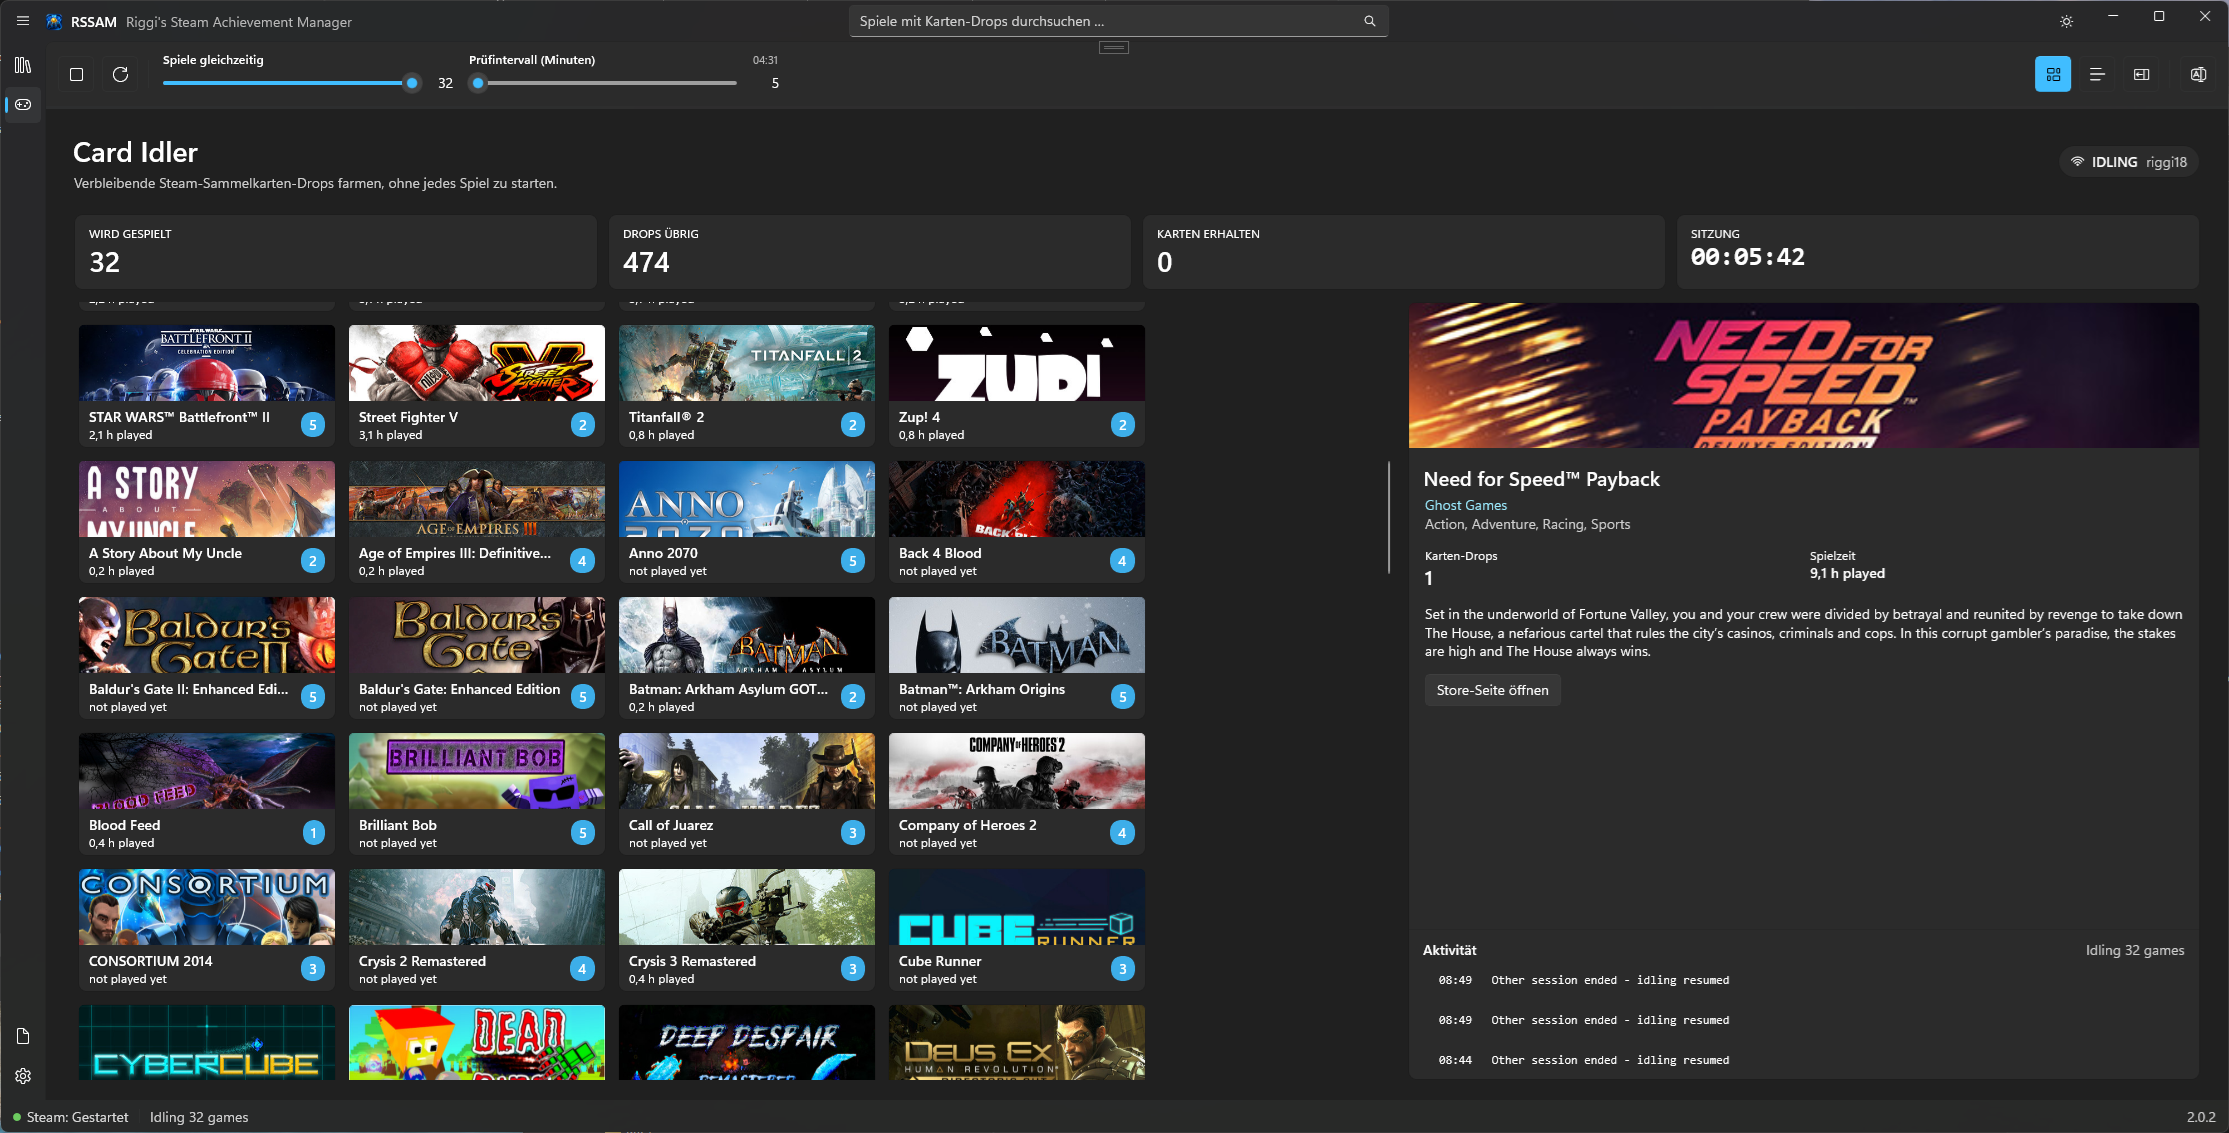
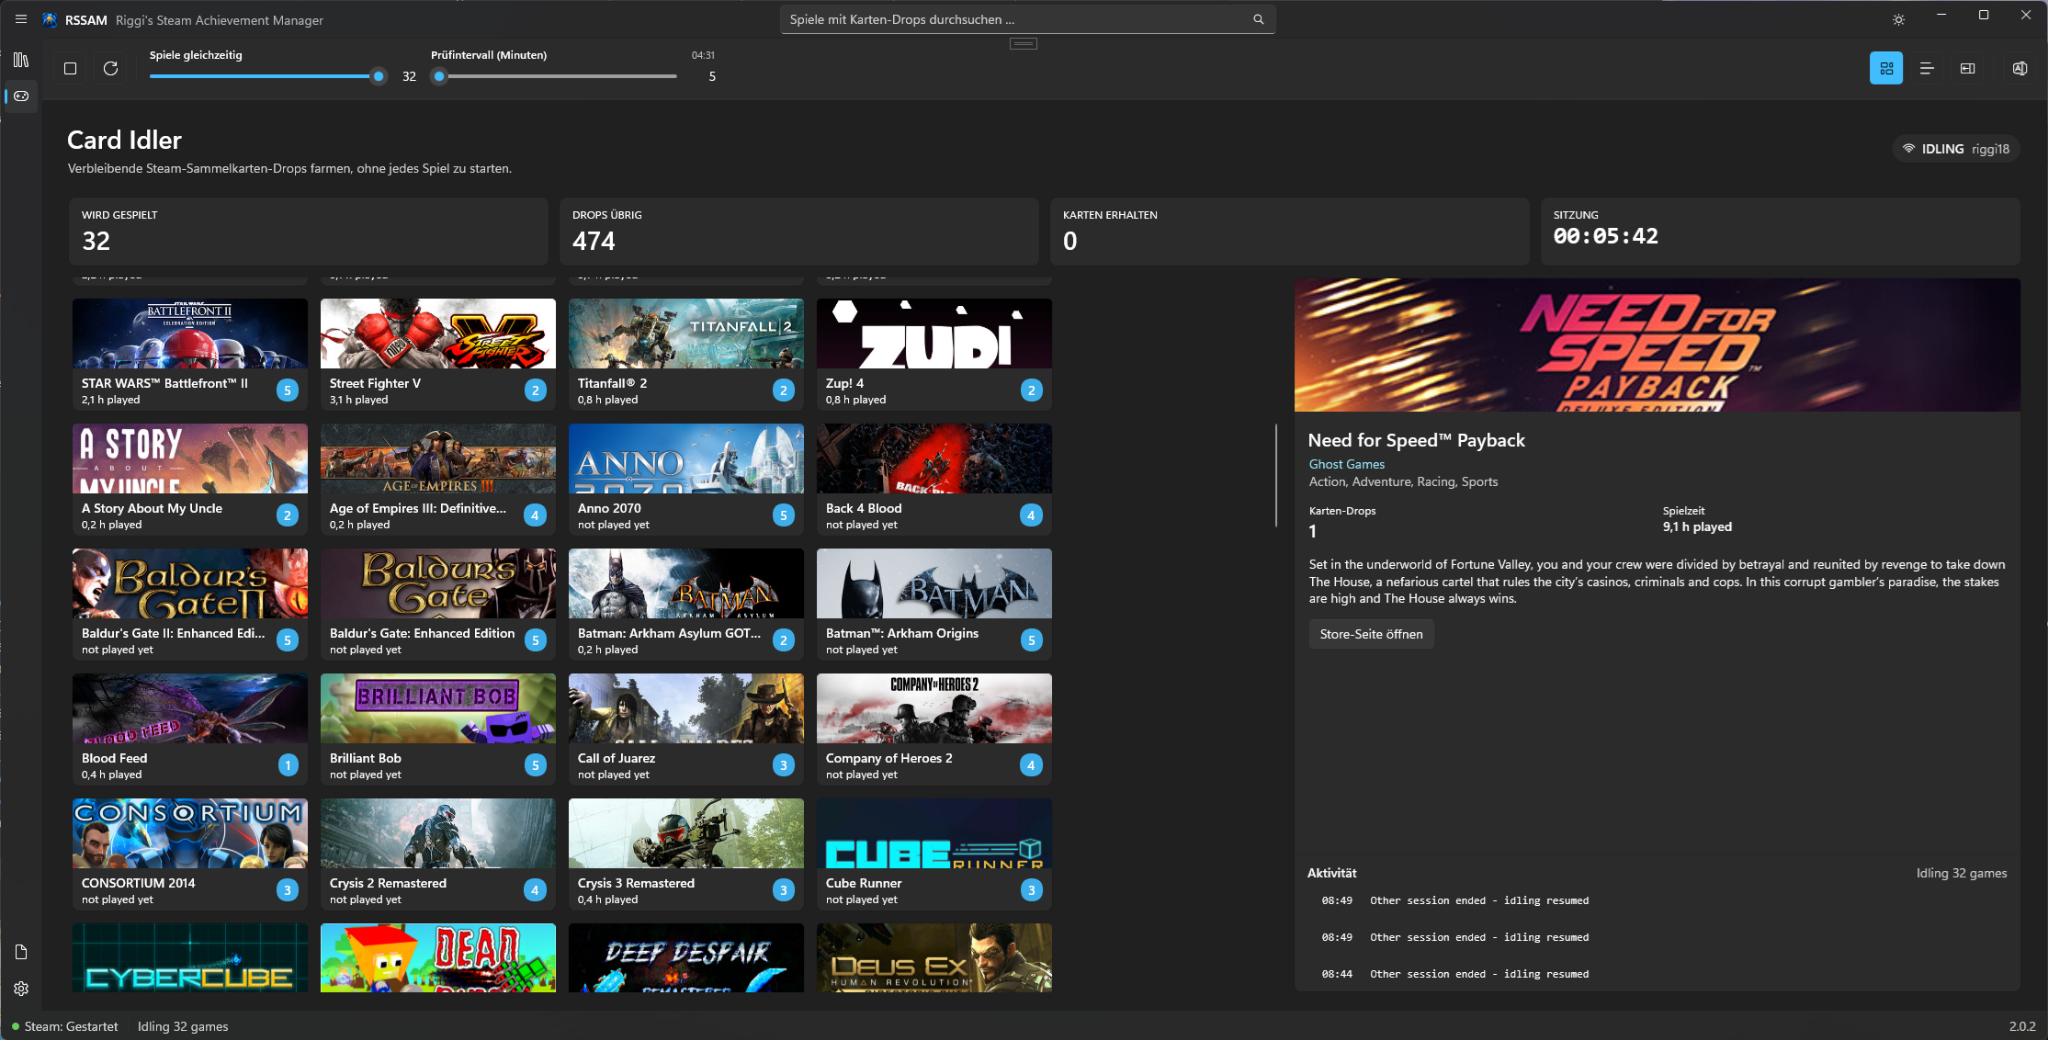
Release 2.0.3: Card Idler TableView and version bump
Bump release to 2.0.3 across build and app metadata (Directory.Build.props, AppVersion, app.manifest, README, docs and scripts) and add changelog entry. Replace Card Idler's manual ListView detail with WinUI.TableView (package added), providing read-only columns, single-row selection and complete-row item clicks; update XAML and code-behind accordingly and add Card Idler screenshot. Remove/disable obsolete app-local shell contract sources in RSSAM.App and add compatibility tombstones. Update docs (architecture, testing, project structure, build/release) to reflect changes.

diff --git a/src/RSSAM.CardIdler/Views/CardIdlerPage.xaml b/src/RSSAM.CardIdler/Views/CardIdlerPage.xaml
@@ -3,6 +3,7 @@
     xmlns="http://schemas.microsoft.com/winfx/2006/xaml/presentation"
     xmlns:x="http://schemas.microsoft.com/winfx/2006/xaml"
     xmlns:conv="using:RSSAM.CardIdler.Converters"
+    xmlns:tv="using:WinUI.TableView"
     x:Name="RootPage"
     NavigationCacheMode="Required">
 
@@ -123,37 +124,48 @@
                         </ListView>
 
                         <Grid x:Name="DetailGamesPanel" Visibility="Collapsed">
-                            <Grid.RowDefinitions><RowDefinition Height="40" /><RowDefinition Height="*" /></Grid.RowDefinitions>
-                            <Grid Padding="12,0" ColumnSpacing="12" Background="{ThemeResource CardBackgroundFillColorDefaultBrush}">
-                                <Grid.ColumnDefinitions>
-                                    <ColumnDefinition Width="92" /><ColumnDefinition Width="*" /><ColumnDefinition Width="88" />
-                                    <ColumnDefinition Width="76" /><ColumnDefinition Width="110" />
-                                </Grid.ColumnDefinitions>
-                                <TextBlock x:Name="DetailImageColumnText" Text="Image" FontWeight="SemiBold" VerticalAlignment="Center" />
-                                <TextBlock x:Name="DetailGameColumnText" Grid.Column="1" Text="Game" FontWeight="SemiBold" VerticalAlignment="Center" />
-                                <TextBlock x:Name="DetailAppIdColumnText" Grid.Column="2" Text="App ID" FontWeight="SemiBold" VerticalAlignment="Center" />
-                                <TextBlock x:Name="DetailDropsColumnText" Grid.Column="3" Text="Drops" FontWeight="SemiBold" VerticalAlignment="Center" />
-                                <TextBlock x:Name="DetailPlaytimeColumnText" Grid.Column="4" Text="Playtime" FontWeight="SemiBold" VerticalAlignment="Center" />
-                            </Grid>
-                            <ListView x:Name="DetailGamesView" Grid.Row="1"
-                                      ItemsSource="{Binding FilteredGames, ElementName=RootPage}"
-                                      IsItemClickEnabled="True" ItemClick="GameList_ItemClick" SelectionMode="Single">
-                                <ListView.ItemTemplate>
-                                    <DataTemplate>
-                                        <Grid MinHeight="58" Padding="12,5" ColumnSpacing="12" ToolTipService.ToolTip="{Binding Name}">
-                                            <Grid.ColumnDefinitions>
-                                                <ColumnDefinition Width="92" /><ColumnDefinition Width="*" /><ColumnDefinition Width="88" />
-                                                <ColumnDefinition Width="76" /><ColumnDefinition Width="110" />
-                                            </Grid.ColumnDefinitions>
-                                            <Border CornerRadius="4"><Image Source="{Binding HeaderUrl}" Stretch="UniformToFill" /></Border>
-                                            <TextBlock Grid.Column="1" Text="{Binding Name}" VerticalAlignment="Center" TextTrimming="CharacterEllipsis" />
-                                            <TextBlock Grid.Column="2" Text="{Binding AppId}" VerticalAlignment="Center" />
-                                            <TextBlock Grid.Column="3" Text="{Binding DropsRemaining}" VerticalAlignment="Center" />
-                                            <TextBlock Grid.Column="4" Text="{Binding HoursText}" VerticalAlignment="Center" TextTrimming="CharacterEllipsis" />
-                                        </Grid>
-                                    </DataTemplate>
-                                </ListView.ItemTemplate>
-                            </ListView>
+                            <tv:TableView x:Name="DetailGamesView"
+                                          ItemsSource="{Binding FilteredGames, ElementName=RootPage}"
+                                          AutoGenerateColumns="False"
+                                          IsReadOnly="True"
+                                          CanResizeColumns="False"
+                                          CanReorderColumns="False"
+                                          CanSortColumns="False"
+                                          CanFilterColumns="False"
+                                          IsItemClickEnabled="True"
+                                          SelectionMode="Single"
+                                          SelectionUnit="Row"
+                                          CornerButtonMode="None"
+                                          ItemClick="GameList_ItemClick">
+                                <tv:TableView.Columns>
+                                    <tv:TableViewTemplateColumn x:Name="DetailImageColumn" Width="142">
+                                        <tv:TableViewTemplateColumn.CellTemplate>
+                                            <DataTemplate>
+                                                <Border Width="116"
+                                                        Height="44"
+                                                        CornerRadius="4"
+                                                        VerticalAlignment="Center"
+                                                        Background="{ThemeResource CardBackgroundFillColorDefaultBrush}"
+                                                        ToolTipService.ToolTip="{Binding Name}">
+                                                    <Image Source="{Binding HeaderUrl}" Stretch="UniformToFill" />
+                                                </Border>
+                                            </DataTemplate>
+                                        </tv:TableViewTemplateColumn.CellTemplate>
+                                    </tv:TableViewTemplateColumn>
+                                    <tv:TableViewTextColumn x:Name="DetailGameColumn"
+                                                            Width="*"
+                                                            Binding="{Binding Name, Mode=OneWay}" />
+                                    <tv:TableViewNumberColumn x:Name="DetailAppIdColumn"
+                                                              Width="100"
+                                                              Binding="{Binding AppId, Mode=OneWay}" />
+                                    <tv:TableViewNumberColumn x:Name="DetailDropsColumn"
+                                                              Width="90"
+                                                              Binding="{Binding DropsRemaining, Mode=OneWay}" />
+                                    <tv:TableViewTextColumn x:Name="DetailPlaytimeColumn"
+                                                            Width="120"
+                                                            Binding="{Binding HoursText, Mode=OneWay}" />
+                                </tv:TableView.Columns>
+                            </tv:TableView>
                         </Grid>
                     </Grid>
 

diff --git a/src/RSSAM.CardIdler/Views/CardIdlerPage.xaml.cs b/src/RSSAM.CardIdler/Views/CardIdlerPage.xaml.cs
@@ -167,11 +167,11 @@ public sealed partial class CardIdlerPage : Page, IShellContentPage
         DetailPlaytimeLabelText.Text = T("CardIdler.Playtime", "Playtime");
         OpenStoreButton.Content = T("CardIdler.OpenStore", "Open store page");
         ActivityLabelText.Text = T("CardIdler.Activity", "Activity");
-        DetailImageColumnText.Text = T("CardIdler.Image", "Image");
-        DetailGameColumnText.Text = T("CardIdler.Game", "Game");
-        DetailAppIdColumnText.Text = T("CardIdler.AppId", "App ID");
-        DetailDropsColumnText.Text = T("CardIdler.Drops", "Drops");
-        DetailPlaytimeColumnText.Text = T("CardIdler.Playtime", "Playtime");
+        DetailImageColumn.Header = T("CardIdler.Image", "Image");
+        DetailGameColumn.Header = T("CardIdler.Game", "Game");
+        DetailAppIdColumn.Header = T("CardIdler.AppId", "App ID");
+        DetailDropsColumn.Header = T("CardIdler.Drops", "Drops");
+        DetailPlaytimeColumn.Header = T("CardIdler.Playtime", "Playtime");
         LoginTitleText.Text = T("CardIdler.LoginTitle", "Steam sign-in");
         LoginDescriptionText.Text = T("CardIdler.LoginDescription", "Sign in to scan your remaining card drops and start idling.");
         UsernameLabelText.Text = T("CardIdler.Username", "Steam account name");

diff --git a/src/RSSAM.App/Presentation/Shell/ShellToolbarItem.cs b/src/RSSAM.App/Presentation/Shell/ShellToolbarItem.cs
@@ -1,32 +1,4 @@
-// RSSAM original code.
-// Copyright (c) 2026 Daniel Riggi (riggi89).
-// Distributed under the project license; see LICENSE.md and NOTICE.md.
-
-namespace RSSAM.Presentation.Shell;
-
-public enum ShellToolbarItemType
-{
-    Button,
-    ToggleButton,
-    Separator
-}
-
-public enum ShellToolbarItemPlacement
-{
-    Left,
-    Right
-}
-
-public sealed class ShellToolbarItem
-{
-    public required string Key { get; init; }
-    public required string Text { get; init; }
-    public string Glyph { get; init; } = "";
-    public string? ToolTip { get; init; }
-    public ShellToolbarItemType ItemType { get; init; } = ShellToolbarItemType.Button;
-    public ShellToolbarItemPlacement Placement { get; init; } = ShellToolbarItemPlacement.Left;
-    public bool IsEnabled { get; set; } = true;
-    public bool IsChecked { get; set; }
-    public Action? Execute { get; init; }
-    public Action<bool>? Toggle { get; init; }
-}
+// Compatibility tombstone for source-tree upgrades.
+// ShellToolbarItem and its enums are defined in
+// RSSAM.Core/Presentation/Shell/ShellToolbarItem.cs.
+// This file is intentionally excluded from compilation by RSSAM.App.csproj.

diff --git a/src/RSSAM.App/Presentation/Shell/IShellContentPage.cs b/src/RSSAM.App/Presentation/Shell/IShellContentPage.cs
@@ -1,20 +1,3 @@
-// RSSAM original code.
-// Copyright (c) 2026 Daniel Riggi (riggi89).
-// Distributed under the project license; see LICENSE.md and NOTICE.md.
-
-namespace RSSAM.Presentation.Shell;
-
-public interface IShellContentPage
-{
-    IReadOnlyList<ShellToolbarItem> GetToolbarItems();
-    string? SearchContextId { get; }
-    string? SearchPlaceholder { get; }
-    string StatusText { get; }
-    bool CanGoBack { get; }
-    bool IsBusy { get; }
-
-    event EventHandler? ShellStateChanged;
-
-    void ApplySearch(string query);
-    void GoBack();
-}
+// Compatibility tombstone for source-tree upgrades.
+// IShellContentPage is defined in RSSAM.Core/Presentation/Shell/IShellContentPage.cs.
+// This file is intentionally excluded from compilation by RSSAM.App.csproj.

diff --git a/src/RSSAM.App/AppVersion.cs b/src/RSSAM.App/AppVersion.cs
@@ -6,7 +6,7 @@ namespace RSSAM;
 
 internal static class AppVersion
 {
-    public const string Fallback = "2.0.2";
+    public const string Fallback = "2.0.3";
 
     public static string Display
     {

diff --git a/README.md b/README.md
@@ -7,7 +7,7 @@
 <p align="center">
   <a href="https://github.com/riggi89/RSSAM/releases"><img alt="Windows x86 supported" src="https://img.shields.io/badge/Windows-x86-0078D4?logo=windows11&amp;logoColor=white"></a>
   <a href="https://github.com/riggi89/RSSAM/releases"><img alt="Windows x64 supported" src="https://img.shields.io/badge/Windows-x64-0078D4?logo=windows11&amp;logoColor=white"></a>
-  <a href="https://github.com/riggi89/RSSAM/releases"><img alt="Version 2.0.2" src="https://img.shields.io/badge/version-2.0.2-blue"></a>
+  <a href="https://github.com/riggi89/RSSAM/releases"><img alt="Version 2.0.3" src="https://img.shields.io/badge/version-2.0.3-blue"></a>
   <a href="LICENSE.md"><img alt="zlib license" src="https://img.shields.io/badge/license-zlib-green"></a>
 </p>
 
@@ -52,16 +52,20 @@ RSSAM is an independently maintained fork of Steam Achievement Manager. It is no
 
 Additional views: [List](docs/images/game-library-list.png) · [Table](docs/images/game-library-table.png) · [Favorites](docs/images/game-library-favorites.png) · [Settings](docs/images/settings.png)
 
+### Card Idler
+
+![RSSAM Card Idler](docs/images/card-idler.png)
+
 ## Download and installation
 
 Download the latest version from [GitHub Releases](https://github.com/riggi89/RSSAM/releases).
 
 | Package | Recommended for |
 | --- | --- |
-| `RSSAM_2.0.2-win-x64-Setup.exe` | Most Windows 10 and Windows 11 computers |
-| `RSSAM_2.0.2-win-x86-Setup.exe` | 32-bit Windows installations |
-| `RSSAM_2.0.2-win-x64-Portable.zip` | Portable use on 64-bit Windows |
-| `RSSAM_2.0.2-win-x86-Portable.zip` | Portable use on 32-bit Windows |
+| `RSSAM_2.0.3-win-x64-Setup.exe` | Most Windows 10 and Windows 11 computers |
+| `RSSAM_2.0.3-win-x86-Setup.exe` | 32-bit Windows installations |
+| `RSSAM_2.0.3-win-x64-Portable.zip` | Portable use on 64-bit Windows |
+| `RSSAM_2.0.3-win-x86-Portable.zip` | Portable use on 32-bit Windows |
 
 The installers install RSSAM for the current user under `%LOCALAPPDATA%\Programs\RSSAM` and do not require administrator rights. Extract a portable ZIP completely before starting `RSSAM.exe`.
 

diff --git a/docs/development/PROJECT-STRUCTURE.md b/docs/development/PROJECT-STRUCTURE.md
@@ -33,7 +33,7 @@ Important locations:
 
 | Path | Purpose |
 | --- | --- |
-| `Views/CardIdlerPage.xaml` / `.cs` | Embedded WinUI interface, three game views, title-bar search and shell toolbar integration |
+| `Views/CardIdlerPage.xaml` / `.cs` | Embedded WinUI interface, tile/list/TableView game layouts, title-bar search and shell toolbar integration |
 | `ViewModels` | Password, Steam Guard and QR login, scan, queue and idle-loop state |
 | `Services/SteamService.cs` | SteamKit2 credentials/QR authentication, playing state and community cookies |
 | `Services/BadgeScraper.cs` | Private badge-page parsing and remaining-drop detection |
@@ -41,7 +41,7 @@ Important locations:
 | `Models/GameInfo.cs` | Bindable game/drop model |
 | `LICENSE.CardIdler.txt` | MIT license retained from CardIdler by Sam-218 |
 
-The project builds as `RSSAM.CardIdler.dll`. It uses SteamKit2 independently of the native API bridge, QRCoder for local Steam Mobile QR rendering and stores its data below `%LOCALAPPDATA%\RSSAM\CardIdler`.
+The project builds as `RSSAM.CardIdler.dll`. It uses SteamKit2 independently of the native API bridge, QRCoder for local Steam Mobile QR rendering and WinUI.TableView for the read-only detail layout. Its data is stored below `%LOCALAPPDATA%\RSSAM\CardIdler`.
 
 ## RSSAM.Core
 

diff --git a/CHANGELOG.md b/CHANGELOG.md
@@ -1,7 +1,16 @@
 # RSSAM Changelog
 
+## 2.0.3 - 2026-09-25
+
+- Replaced the Card Idler's manually constructed detail list with the shared `WinUI.TableView` control.
+- Added read-only image, game, App ID, drops and playtime columns with localized headers.
+- Enabled single-click selection across the complete Card Idler detail row, matching the main game library.
+- Added the Card Idler screenshot to the root README.
+- Increased the RSSAM version to **2.0.3**.
+
 ## 2.0.2 - 2026-09-25
 
+- Prevented obsolete App-local shell contract files from shadowing the Core `ShellToolbarItem` definition during source-tree upgrades.
 - Fixed the Card Idler `GameInfo.AppId` setter so scan and import paths no longer trigger an init-only assignment compiler error.
 - Renamed the main navigation entry from **Card Idler** to **Idler** while retaining Card Idler as the feature and assembly name.
 - Removed the redundant game-library subtitle below **Steam games**.

diff --git a/docs/development/ARCHITECTURE.md b/docs/development/ARCHITECTURE.md
@@ -30,7 +30,7 @@ Content pages implement `IShellContentPage` and expose:
 
 The shell renders left and right toolbar groups independently. Page actions are icon-only buttons with localized tooltips and accessible names. Reload actions can be anchored at the far right through `ShellToolbarItemPlacement.Right`.
 
-Card Idler also publishes its Start/Stop, Rescan, batch-size, recheck-interval, view-mode and sign-out controls through this contract. Slider toolbar items expose live value and countdown text without introducing a page-local command bar.
+Card Idler also publishes its Start/Stop, Rescan, batch-size, recheck-interval, view-mode and sign-out controls through this contract. Slider toolbar items expose live value and countdown text without introducing a page-local command bar. Its detail layout uses WinUI.TableView with single-row selection and complete-row item clicks, matching the main game library.
 
 ## Core layer
 

diff --git a/docs/development/POWERSHELL-SCRIPTS.md b/docs/development/POWERSHELL-SCRIPTS.md
@@ -106,7 +106,7 @@ Without an output argument, the archive is created as `artifacts/source/RSSAM_<v
 ## Version synchronization
 
 ```powershell
-.\scripts\set-version.ps1 -Version 2.0.2
+.\scripts\set-version.ps1 -Version 2.0.3
 ```
 
 The value must contain exactly three numeric parts. The script validates every expected match before writing and synchronizes:
@@ -120,7 +120,7 @@ The script deliberately does not rewrite changelog text, README package examples
 ## Safe release order
 
 ```powershell
-.\scripts\set-version.ps1 -Version 2.0.2
+.\scripts\set-version.ps1 -Version 2.0.3
 .\scripts\clean.ps1
 .\scripts\test.ps1 -Configuration Release -CollectCoverage
 .\scripts\publish.ps1 -Configuration Release -Architecture All

diff --git a/docs/development/TESTING.md b/docs/development/TESTING.md
@@ -81,7 +81,7 @@ Before a release, test at least:
 | DPI | 100 percent and 150 percent |
 | Library | Tile, List, Table, Favorites |
 | Detail page | Achievements and Statistics |
-| Card Idler | Password/Steam Guard and QR sign-in, scan, tile/list/detail views, search, toolbar controls, start/stop, pause and sign-out |
+| Card Idler | Password/Steam Guard and QR sign-in, scan, tile/list/TableView detail layouts, complete-row clicks, search, toolbar controls, start/stop, pause and sign-out |
 | Input | Complete row click, toolbar buttons, search, dialogs |
 | Languages | German, English, Spanish, French, Turkish |
 | Distribution | Installer and portable ZIP |

diff --git a/docs/development/BUILD-AND-RELEASE.md b/docs/development/BUILD-AND-RELEASE.md
@@ -112,4 +112,4 @@ The compiled version is synchronized across:
 - `src/RSSAM.App/AppVersion.cs`;
 - `src/RSSAM.App/app.manifest`.
 
-The Windows manifest uses four parts; the final component remains zero. User-facing RSSAM versions use three parts, for example `2.0.2`.
+The Windows manifest uses four parts; the final component remains zero. User-facing RSSAM versions use three parts, for example `2.0.3`.
